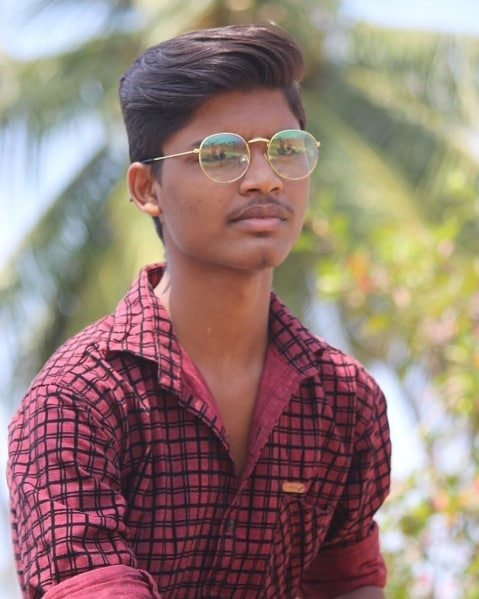
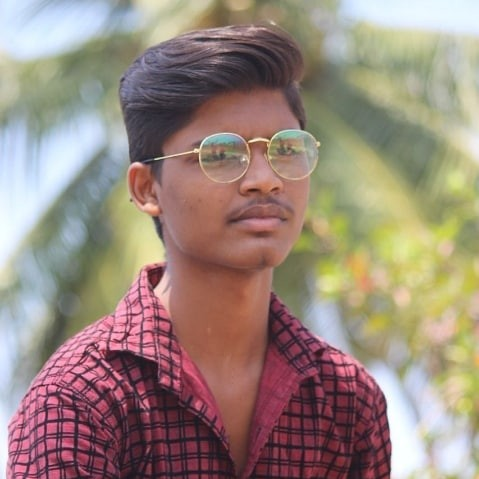
portfolio 1

diff --git a/style.css b/style.css
@@ -1,8 +1,12 @@
-* {
+* { 
   margin: 0;
   padding: 0;
   box-sizing: border-box;
   font-family: Arial;
+}
+
+html {
+  scroll-behavior: smooth;
 }
 
 body {
@@ -35,7 +39,7 @@ nav a {
   text-decoration: none;
 }
 
-/* MENU ICON */
+/* MENU */
 #menu {
   display: none;
   font-size: 22px;
@@ -51,9 +55,18 @@ nav a {
   flex-wrap: wrap;
 }
 
+.home h1 {
+  white-space: nowrap;
+}
+
+#typing {
+  min-height: 30px;
+  display: inline-block;
+}
+
 .image img {
   width: 250px;
-  border-radius: 50%;
+  border-radius: 55%;
   animation: float 3s infinite;
 }
 
@@ -92,6 +105,33 @@ section {
 .css {width: 80%;}
 .js {width: 70%;}
 
+/* EDUCATION COLORS */
+.degree {
+  color: cyan;
+}
+
+.institute {
+  color: lightgray;
+}
+
+/* LIGHT MODE */
+body.light {
+  background: white;
+  color: black;
+}
+
+body.light header {
+  background: #ddd;
+}
+
+body.light .card {
+  background: #f1f1f1;
+}
+
+body.light nav a {
+  color: black;
+}
+
 /* MOBILE */
 @media(max-width:768px){
 
@@ -116,5 +156,9 @@ section {
   .home {
     flex-direction: column;
     text-align: center;
+  }
+
+  .home h1 {
+    white-space: normal;
   }
 }

diff --git a/index.html b/index.html
@@ -36,7 +36,7 @@
 </div>
 
 <div class="image">
-<img src="gokulraj.jpg" alt="Gokul">
+<img src="./gokulraj.jpg" alt="Gokul">
 </div>
 </section>
 
@@ -77,13 +77,18 @@
 <h2>Education</h2>
 
 <div class="card">
-<h3>B.Sc Computer Technology</h3>
-<p>Kongu Arts and Science College</p>
+<h3 class="degree">B.Sc Computer Technology</h3>
+<p class="institute">Kongu Arts and Science College</p>
 </div>
 
 <div class="card">
-<h3>HSC</h3>
-<p>Sengunthar Hr Sec School</p>
+<h3 class="degree">HSC</h3>
+<p class="institute">Sengunthar Hr Sec School</p>
+</div>
+
+<div class="card">
+<h3 class="degree">SSLC</h3>
+<p class="institute">Sengunthar Hr Sec School</p>
 </div>
 
 </section>
@@ -102,8 +107,15 @@
 <!-- CONTACT -->
 <section id="contact">
 <h2>Contact</h2>
+
 <p><i class="fas fa-phone"></i> 8072407738</p>
 <p><i class="fas fa-envelope"></i> gokul@email.com</p>
+
+<p>
+<i class="fab fa-linkedin"></i>
+<a href="https://www.linkedin.com/in/gokul-raj-s-856b0727b?utm_source=share_via&utm_content=profile&utm_medium=member_android" target="_blank">LinkedIn Profile</a>
+</p>
+
 </section>
 
 <script src="script.js"></script>

diff --git a/script.js b/script.js
@@ -1,17 +1,23 @@
 const menu = document.getElementById("menu");
 const nav = document.getElementById("nav");
+const toggle = document.getElementById("toggle");
 
-// MENU TOGGLE
+// MENU
 menu.onclick = () => {
   nav.classList.toggle("active");
 };
 
-// CLOSE MENU WHEN CLICK LINK
+// CLOSE MENU
 document.querySelectorAll("nav a").forEach(link => {
   link.onclick = () => {
     nav.classList.remove("active");
   };
 });
+
+// DARK MODE
+toggle.onclick = () => {
+  document.body.classList.toggle("light");
+};
 
 // TYPING EFFECT
 const text = ["Frontend Developer", "Web Designer"];
@@ -37,6 +43,7 @@ function type() {
       i = (i + 1) % text.length;
     }
   }
+
   setTimeout(type, isDeleting ? 50 : 100);
 }
 
